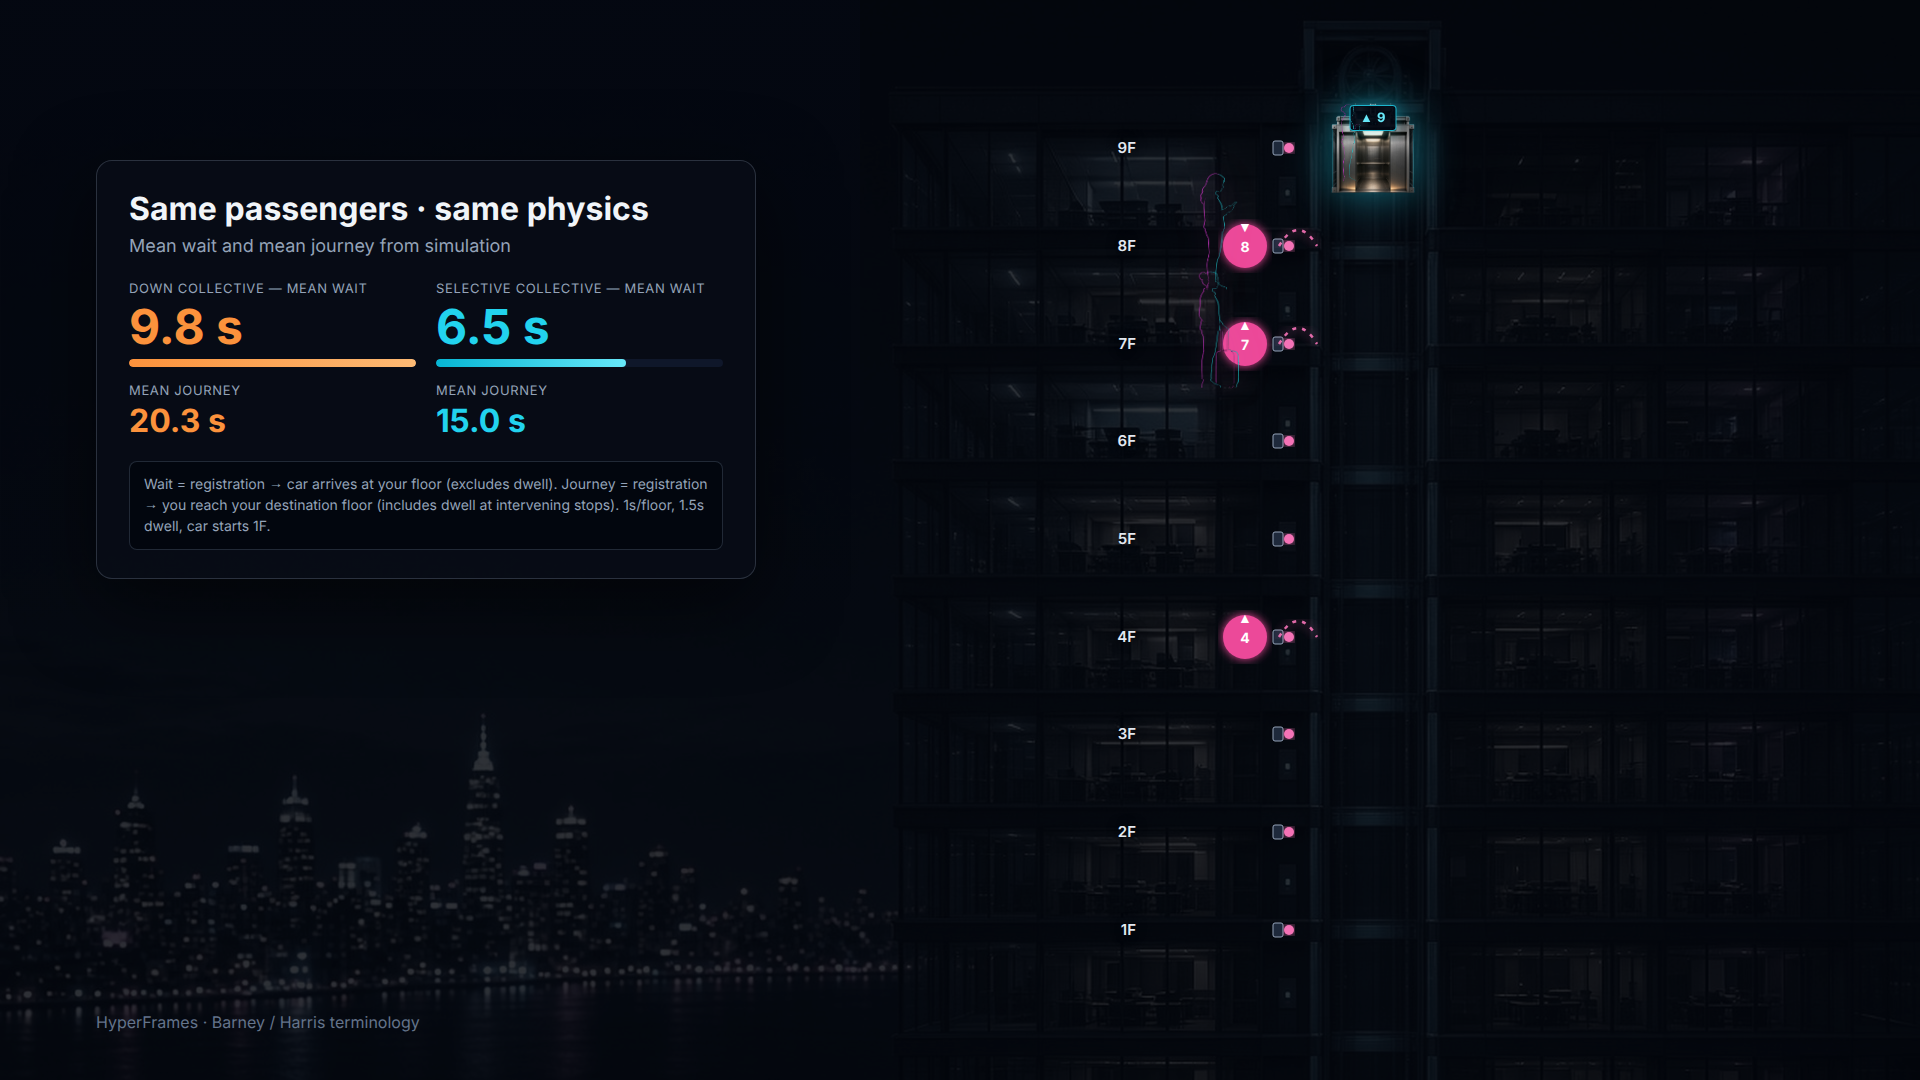
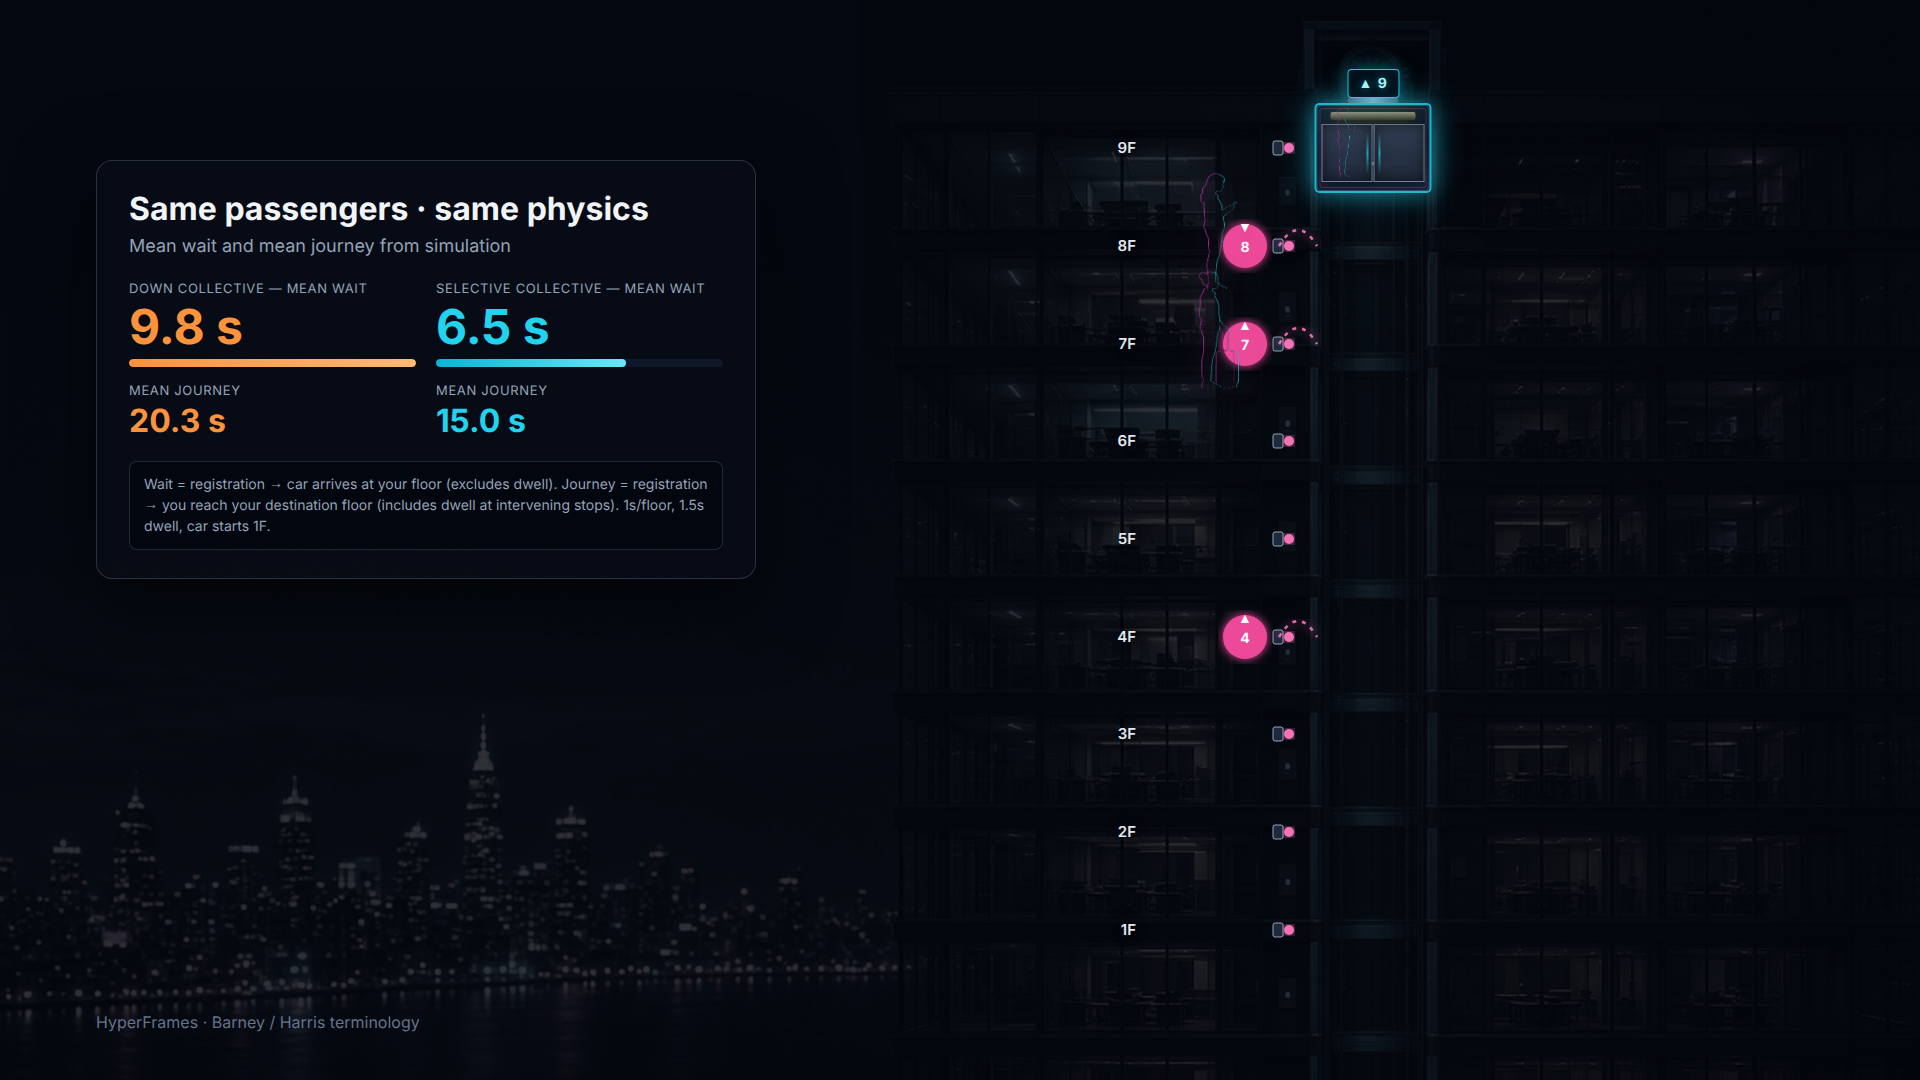
Replace photo cab with neon CSS/SVG elevator car in shaft

Changed region(s): [[0.6562, 0.0611, 0.75, 0.1833]]

diff --git a/apps/elevator-selective-collective/composition/index.html b/apps/elevator-selective-collective/composition/index.html
@@ -41,39 +41,87 @@
       .floor-label { fill: #e2e8f0; font-size: 15px; font-weight: 600; text-shadow: 0 0 12px rgba(0,0,0,0.9); }
       .hall-btn { fill: #1e293b; stroke: #94a3b8; stroke-width: 1; }
       .hall-lantern { fill: #f472b6; filter: url(#magentaGlow); }
-      .rope { stroke: #cbd5e1; stroke-width: 2.2; fill: none; opacity: 0.85; filter: url(#ropeGlow); }
+      .rope {
+        stroke: #67e8f9; stroke-width: 2.5; fill: none; opacity: 0.92;
+        filter: url(#cyanGlow);
+      }
       #car {
         position: absolute; left: 0; top: 0; z-index: 20;
         opacity: 0;
-        filter: drop-shadow(0 0 22px rgba(34, 211, 238, 0.5));
         overflow: visible;
         min-width: 80px; min-height: 80px;
       }
-      #car .cab-layer {
-        position: absolute; left: 0; top: 0; width: 100%; height: 100%;
-        display: block;
-        object-fit: contain; object-position: center 70%;
+      #car-indicator {
+        position: absolute; left: 50%; top: -34px;
+        transform: translateX(-50%);
+        min-width: 52px; padding: 5px 10px;
+        background: rgba(2, 8, 18, 0.94);
+        border: 1px solid rgba(34, 211, 238, 0.95);
+        border-radius: 4px;
+        color: #a5f3fc; font-size: 14px; font-weight: 700;
+        font-variant-numeric: tabular-nums;
+        text-align: center; letter-spacing: 0.06em;
+        text-shadow: 0 0 10px rgba(34, 211, 238, 0.9);
+        box-shadow: 0 0 18px rgba(34, 211, 238, 0.45), inset 0 0 12px rgba(34, 211, 238, 0.15);
+        z-index: 8;
+      }
+      .neon-cab {
+        position: relative; width: 100%; height: 100%;
+        filter: drop-shadow(0 0 16px rgba(34, 211, 238, 0.35));
+      }
+      .neon-cab-crosshead {
+        position: absolute; top: -5px; left: 28%; right: 28%; height: 5px;
+        background: linear-gradient(90deg, #475569, #94a3b8, #475569);
+        border-radius: 2px;
+        box-shadow: 0 0 10px rgba(34, 211, 238, 0.55);
+      }
+      .neon-cab-body {
+        position: absolute; inset: 0;
+        border-radius: 5px;
+        background: linear-gradient(165deg, rgba(10, 28, 48, 0.88) 0%, rgba(4, 12, 24, 0.94) 55%, rgba(8, 20, 36, 0.9) 100%);
+        border: 2px solid rgba(34, 211, 238, 0.85);
+        box-shadow:
+          0 0 22px rgba(34, 211, 238, 0.4),
+          inset 0 0 28px rgba(34, 211, 238, 0.1),
+          inset 0 -12px 24px rgba(236, 72, 153, 0.08);
+      }
+      .neon-cab-body::after {
+        content: "";
+        position: absolute; inset: 3px; border-radius: 3px;
+        border: 1px solid rgba(236, 72, 153, 0.28);
         pointer-events: none;
       }
-      #car .door {
-        position: absolute; top: 0; height: 100%; width: 50%;
-        display: block;
-        object-fit: contain; object-position: center 70%;
-        transition: transform 0.05s linear;
+      .neon-cab-light {
+        position: absolute; top: 8%; left: 12%; right: 12%; height: 9%;
+        border-radius: 2px;
+        background: linear-gradient(180deg, rgba(254, 243, 199, 0.55), rgba(251, 191, 36, 0.2));
+        box-shadow: 0 0 16px rgba(251, 191, 36, 0.35);
       }
-      #car .door-left { left: 0; transform-origin: left center; }
-      #car .door-right { right: 0; left: auto; transform-origin: right center; }
-      #car-indicator {
-        position: absolute; left: 50%; top: 2%;
-        transform: translateX(-50%);
-        min-width: 46px; padding: 4px 10px;
-        background: rgba(2, 8, 18, 0.92);
-        border: 1px solid rgba(34, 211, 238, 0.85);
-        border-radius: 4px;
-        color: #67e8f9; font-size: 13px; font-weight: 700;
-        text-align: center; letter-spacing: 0.04em;
-        box-shadow: 0 0 14px rgba(34, 211, 238, 0.35);
-        z-index: 5;
+      .neon-rail {
+        position: absolute; left: 10%; right: 10%; bottom: 30%; height: 3px;
+        border-radius: 2px;
+        background: linear-gradient(90deg, transparent, rgba(203, 213, 225, 0.85), transparent);
+        opacity: 0.85;
+      }
+      .neon-door {
+        position: absolute; top: 22%; bottom: 10%; width: 46%;
+        background: linear-gradient(180deg, rgba(51, 65, 85, 0.95), rgba(30, 41, 59, 0.98));
+        border: 1px solid rgba(148, 163, 184, 0.65);
+        box-shadow: inset 0 0 14px rgba(0, 0, 0, 0.55);
+        transition: transform 0.08s linear, opacity 0.08s linear;
+      }
+      .neon-door::before {
+        content: "";
+        position: absolute; top: 12%; bottom: 12%; width: 2px;
+        background: linear-gradient(180deg, transparent, rgba(34, 211, 238, 0.7), transparent);
+      }
+      .door-left { left: 4%; transform-origin: left center; }
+      .door-left::before { right: 8%; }
+      .door-right { right: 4%; transform-origin: right center; }
+      .door-right::before { left: 8%; }
+      .neon-cab-glow-edge {
+        position: absolute; inset: 0; border-radius: 5px; pointer-events: none;
+        box-shadow: inset 0 0 0 1px rgba(103, 232, 249, 0.25);
       }
       .landing-waiter {
         position: absolute; z-index: 22;
@@ -84,11 +132,11 @@
       }
       .landing-waiter img { height: 118px; width: auto; display: block; }
       .in-car-rider {
-        position: absolute; bottom: 12%; z-index: 6;
+        position: absolute; bottom: 14%; z-index: 6;
         opacity: 1;
-        filter: drop-shadow(0 0 10px rgba(34, 211, 238, 0.5));
+        filter: drop-shadow(0 0 10px rgba(244, 114, 182, 0.45));
       }
-      .in-car-rider img { height: 78px; width: auto; display: block; }
+      .in-car-rider img { height: 72px; width: auto; display: block; }
       .left-panel {
         position: absolute; left: 96px; top: 0; width: 700px; height: 100%;
         z-index: 30; pointer-events: none;
@@ -181,12 +229,19 @@
         </svg>
 
         <div id="car">
-          <img class="cab-layer" src="art/processed/cab-open.png" alt="" />
-          <img class="door door-left" src="art/processed/door-left.png" alt="" />
-          <img class="door door-right" src="art/processed/door-right.png" alt="" />
           <div id="car-indicator">▲ 1</div>
-          <div class="in-car-rider" id="rider-lobby" style="left: 22%">
-            <img src="art/processed/passenger-1.png" alt="" />
+          <div class="neon-cab">
+            <div class="neon-cab-crosshead" aria-hidden="true"></div>
+            <div class="neon-cab-body">
+              <div class="neon-cab-light" aria-hidden="true"></div>
+              <div class="neon-rail" aria-hidden="true"></div>
+              <div class="neon-door door-left" aria-hidden="true"></div>
+              <div class="neon-door door-right" aria-hidden="true"></div>
+              <div class="neon-cab-glow-edge" aria-hidden="true"></div>
+              <div class="in-car-rider" id="rider-lobby" style="left: 18%">
+                <img src="art/processed/passenger-1.png" alt="" />
+              </div>
+            </div>
           </div>
         </div>
 

diff --git a/apps/elevator-selective-collective/composition/scene.js b/apps/elevator-selective-collective/composition/scene.js
@@ -63,11 +63,11 @@ export function initComposition() {
   }
 
   function setDoors(open, amount = 1) {
-    const spread = open ? 46 * amount : 0
+    const spread = open ? 92 * amount : 0
     doorL.style.transform = `translateX(${-spread}%)`
     doorR.style.transform = `translateX(${spread}%)`
-    doorL.style.opacity = open ? Math.max(0, 1 - amount * 0.85) : 1
-    doorR.style.opacity = open ? Math.max(0, 1 - amount * 0.85) : 1
+    doorL.style.opacity = open ? Math.max(0.15, 1 - amount * 0.9) : 1
+    doorR.style.opacity = open ? Math.max(0.15, 1 - amount * 0.9) : 1
   }
 
   function setCarFloor(f, overshoot = 0, doorsOpen = false, doorAmt = 1) {
@@ -208,18 +208,15 @@ export function initComposition() {
 
 export function validateCabPlacement(floor) {
   const car = document.getElementById('car')
-  const img = car?.querySelector('.cab-layer')
-  if (!car || !img) return { ok: false, error: 'missing #car or cab image' }
-  if (!img.complete || img.naturalWidth === 0) {
-    return { ok: false, error: 'cab PNG not loaded' }
-  }
+  const shell = car?.querySelector('.neon-cab-body')
+  if (!car || !shell) return { ok: false, error: 'missing #car or neon cab body' }
   const rect = car.getBoundingClientRect()
-  const imgRect = img.getBoundingClientRect()
+  const shellRect = shell.getBoundingClientRect()
   if (rect.width < 48 || rect.height < 48) {
     return { ok: false, error: `cab box too small: ${rect.width.toFixed(1)}×${rect.height.toFixed(1)}` }
   }
-  if (imgRect.width < 24 || imgRect.height < 24) {
-    return { ok: false, error: `cab image render too small: ${imgRect.width.toFixed(1)}×${imgRect.height.toFixed(1)}` }
+  if (shellRect.width < 40 || shellRect.height < 40) {
+    return { ok: false, error: `neon cab shell too small: ${shellRect.width.toFixed(1)}×${shellRect.height.toFixed(1)}` }
   }
   const cx = rect.left + rect.width / 2
   if (cx < LAYOUT.shaftLeft - 12 || cx > LAYOUT.shaftRight + 12) {
